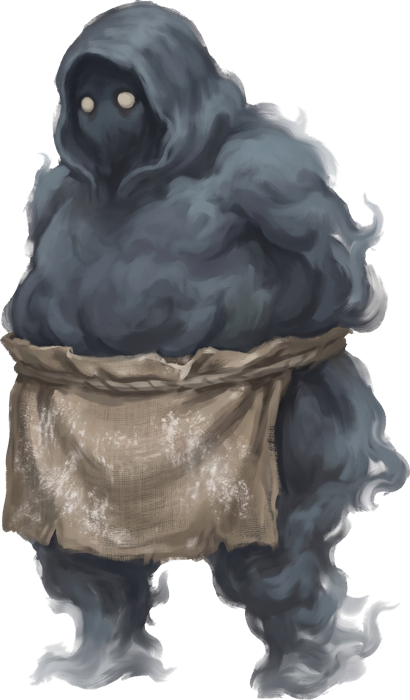
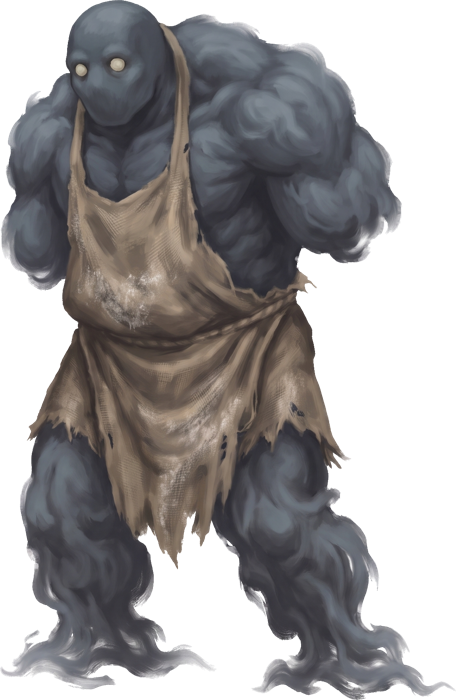
풍차지기 움직임 시험판을 확정 생김새의 부품과 팔꿈치 관절로 바꿨다
Claude-Session: https://claude.ai/code/session_019ctizXgKMq2Zc4rqnxPXRD

diff --git a/움직임시험.html b/움직임시험.html
@@ -24,7 +24,7 @@ const easeOut = t => 1 - (1 - t) ** 3, easeIn = t => t * t * t, rad = d => d * M
 const backOut = t => { const c = 1.9; return 1 + (c + 1) * (t - 1) ** 3 + c * (t - 1) ** 2; };   // 살짝 지나쳤다 돌아온다
 
 // 한 순간의 자세: 팔 각도(a), 팔에 대한 무기 각도(w), 몸 기울기(lean), 앞으로 내딛는 거리(step), 눌림(sq)
-const IDLE = { a: -62, w: 104, lean: 0, step: 0, sq: 1 }, UP = { a: 128, w: 44, lean: 7, step: 14, sq: 1.04 }, DOWN = { a: -28, w: 12, lean: -11, step: -46, sq: 0.94 };
+const IDLE = { a: -80, e: 62, w: 78, lean: 0, step: 0, sq: 1 }, UP = { a: 126, e: 38, w: 14, lean: 7, step: 14, sq: 1.04 }, DOWN = { a: -24, e: 8, w: 4, lean: -11, step: -46, sq: 0.94 };
 function mix(p, q, t) { const o = {}; for (const k in p) o[k] = lerp(p[k], q[k], t); return o; }
 function pose(t) {
   const breathe = Math.sin(t * 2.6) * 1.5;
@@ -37,27 +37,31 @@ function pose(t) {
   else p = IDLE;
   return Object.assign({}, p, { a: p.a + breathe, bob: Math.sin(t * 2.6) * 2 });
 }
-const BODY_H = 340, SH = { x: -34, y: -214 }, ARM = 190, WPN = 330;       // 어깨 자리(발 기준), 팔 길이, 무기 길이
+// 발 기준 자리: 앞 어깨, 뒤 어깨. 위팔 길이, 아래팔 길이, 무기 길이
+const BODY_H = 350, SH = { x: -86, y: -236 }, SHB = { x: 56, y: -252 }, UA = 128, FA = 132, WPN = 370, UJ = UA - 30, FJ = FA - 34, THICK = 1.35;
 
-function drawArm(a, dark) {                                                   // 팔 그림: 어깨가 오른쪽 끝, 주먹이 왼쪽 끝
-  const im = IMG.arm, h = im.height * ARM / im.width;
-  ctx.save(); ctx.rotate(rad(a)); if (dark) ctx.filter = 'brightness(0.72)'; ctx.drawImage(im, -ARM + 16, -h / 2, ARM, h); ctx.restore();
+function seg(key, len, dark) {                                                // 팔 조각 그림: 몸 쪽 관절이 오른쪽 끝
+  const im = IMG[key], h = im.height * len / im.width * THICK;
+  if (dark) ctx.filter = 'brightness(0.7)'; ctx.drawImage(im, -len + 24, -h / 2, len, h); ctx.filter = 'none';
 }
-function drawWeapon(a, w) {                                                   // 무기 그림: 손잡이가 오른쪽 끝
-  const im = IMG.wpn, h = im.height * WPN / im.width;
-  ctx.save(); ctx.rotate(rad(a)); ctx.translate(-ARM + 44, 0); ctx.rotate(rad(w)); ctx.drawImage(im, -WPN + 46, -h / 2, WPN, h); ctx.restore();
+function drawArm(p, dark, withWeapon) {                                       // 어깨 → 팔꿈치 → 손 → 무기 차례로 꺾인다
+  ctx.save(); ctx.rotate(rad(p.a + (dark ? 12 : 0)));
+  ctx.save(); ctx.translate(-UJ, 0); ctx.rotate(rad(p.e));
+  if (withWeapon) { const im = IMG.wpn, h = im.height * WPN / im.width; ctx.save(); ctx.translate(-FJ, 0); ctx.rotate(rad(p.w)); ctx.drawImage(im, -WPN + 70, -h * 0.5, WPN, h); ctx.restore(); }
+  seg('fore', FA, dark); ctx.restore();
+  seg('upper', UA, dark); ctx.restore();
 }
 function drawParts(p) {                                                       // 발밑이 원점. 왼쪽을 본다
-  const b = IMG.body, bw = b.width * BODY_H / b.height;
+  const b = IMG.body, bw = b.width * BODY_H / b.height, bob = p.bob || 0;
   ctx.save(); ctx.translate(p.step, 0); ctx.rotate(rad(p.lean)); ctx.scale(1 / p.sq, p.sq);
-  ctx.save(); ctx.translate(SH.x + 58, SH.y + 6 + (p.bob || 0)); drawArm(p.a + 14, true); ctx.restore();     // 뒤쪽 팔
-  ctx.drawImage(b, -bw / 2, -BODY_H + (p.bob || 0), bw, BODY_H);
-  ctx.save(); ctx.translate(SH.x, SH.y + (p.bob || 0)); drawWeapon(p.a, p.w); drawArm(p.a, false); ctx.restore();
+  ctx.save(); ctx.translate(SHB.x, SHB.y + bob); drawArm(p, true, false); ctx.restore();                  // 뒤쪽 팔
+  ctx.drawImage(b, -bw / 2, -BODY_H + bob, bw, BODY_H);
+  ctx.save(); ctx.translate(SH.x, SH.y + bob); drawArm(p, false, true); ctx.restore();                    // 앞쪽 팔과 무기
   ctx.restore();
 }
 function tip(p) {                                                             // 무기 끝이 화면에서 어디 있는지(베는 자국에 쓴다)
-  const a = rad(p.a), d = rad(p.a + p.w), L = rad(p.lean);
-  let x = SH.x - Math.cos(a) * (ARM - 44) - Math.cos(d) * (WPN - 60), y = SH.y - Math.sin(a) * (ARM - 44) - Math.sin(d) * (WPN - 60);
+  const a = rad(p.a), e = rad(p.a + p.e), d = rad(p.a + p.e + p.w), L = rad(p.lean), R = WPN - 80;
+  const x = SH.x - Math.cos(a) * UJ - Math.cos(e) * FJ - Math.cos(d) * R, y = SH.y - Math.sin(a) * UJ - Math.sin(e) * FJ - Math.sin(d) * R;
   return [p.step + x * Math.cos(L) - y * Math.sin(L), x * Math.sin(L) + y * Math.cos(L)];
 }
 function shadow(x, r) { const g = ctx.createRadialGradient(x, G + 2, 2, x, G + 2, r); g.addColorStop(0, 'rgba(0,0,0,0.38)'); g.addColorStop(1, 'rgba(0,0,0,0)'); ctx.save(); ctx.translate(0, G + 2); ctx.scale(1, 0.22); ctx.translate(0, -(G + 2)); ctx.fillStyle = g; ctx.beginPath(); ctx.arc(x, G + 2, r, 0, 7); ctx.fill(); ctx.restore(); }
@@ -88,11 +92,13 @@ function draw(time) {
   label('가 · 통짜 그림 기울이기', 400, '치켜든 자세 그대로 몸 전체가 기운다'); label('나 · 부품을 나눠 돌리기', 1200, '준비(길게) → 내리침(짧게) → 멈춤 → 되돌아옴');
 
   // 가: 같은 박자로, 통짜 그림을 발밑 축으로 기울인다
-  knight(170, t, T.hit);
+  ctx.save(); ctx.beginPath(); ctx.rect(0, 0, W / 2 - 2, H); ctx.clip();
+  knight(150, t, T.hit);
   const wl = t < T.antic ? 0 : t < T.strike ? lerp(0, 9, easeOut((t - T.antic) / 0.5)) : t < T.hit ? lerp(9, -24, easeIn((t - T.strike) / 0.1)) : t < T.hold ? -24 : t < T.back ? lerp(-24, 0, backOut((t - T.hold) / (T.back - T.hold))) : 0;
-  shadow(560, 110);
-  ctx.save(); ctx.translate(560, G + 6); ctx.rotate(rad(wl)); ctx.translate(wl < 0 ? wl * 1.6 : 0, Math.sin(t * 2.6) * 2); drawParts(Object.assign({}, UP, { lean: 0, step: 0, sq: 1, bob: 0 })); ctx.restore();
+  shadow(520, 110);
+  ctx.save(); ctx.translate(520, G + 6); ctx.rotate(rad(wl)); ctx.translate(wl < 0 ? wl * 1.6 : 0, Math.sin(t * 2.6) * 2); drawParts(Object.assign({}, UP, { lean: 0, step: 0, sq: 1, bob: 0 })); ctx.restore();
   dust(330, sinceHit);
+  ctx.restore();
 
   // 나: 부품
   const shake = sinceHit > 0 && sinceHit < 0.16 ? Math.sin(sinceHit * 110) * 7 * (1 - sinceHit / 0.16) : 0;
@@ -115,7 +121,7 @@ function draw(time) {
   ctx.restore();
 }
 window.__draw = draw;
-Promise.all([load('bg', '배경.jpg'), load('ground', '땅.png'), load('body', '풍차지기-몸.png'), load('arm', '풍차지기-팔.png'), load('wpn', '풍차지기-날개.png'), load('knight', '기사.png')]).then(() => {
+Promise.all([load('bg', '배경.jpg'), load('ground', '땅.png'), load('body', '풍차지기-몸.png'), load('upper', '풍차지기-위팔.png'), load('fore', '풍차지기-아래팔.png'), load('wpn', '풍차지기-날개.png'), load('knight', '기사.png')]).then(() => {
   window.__ready = true;
   if (!location.search.includes('still')) { const t0 = performance.now(); (function f(now) { draw((now - t0) / 1000); requestAnimationFrame(f); })(t0); }
 });
